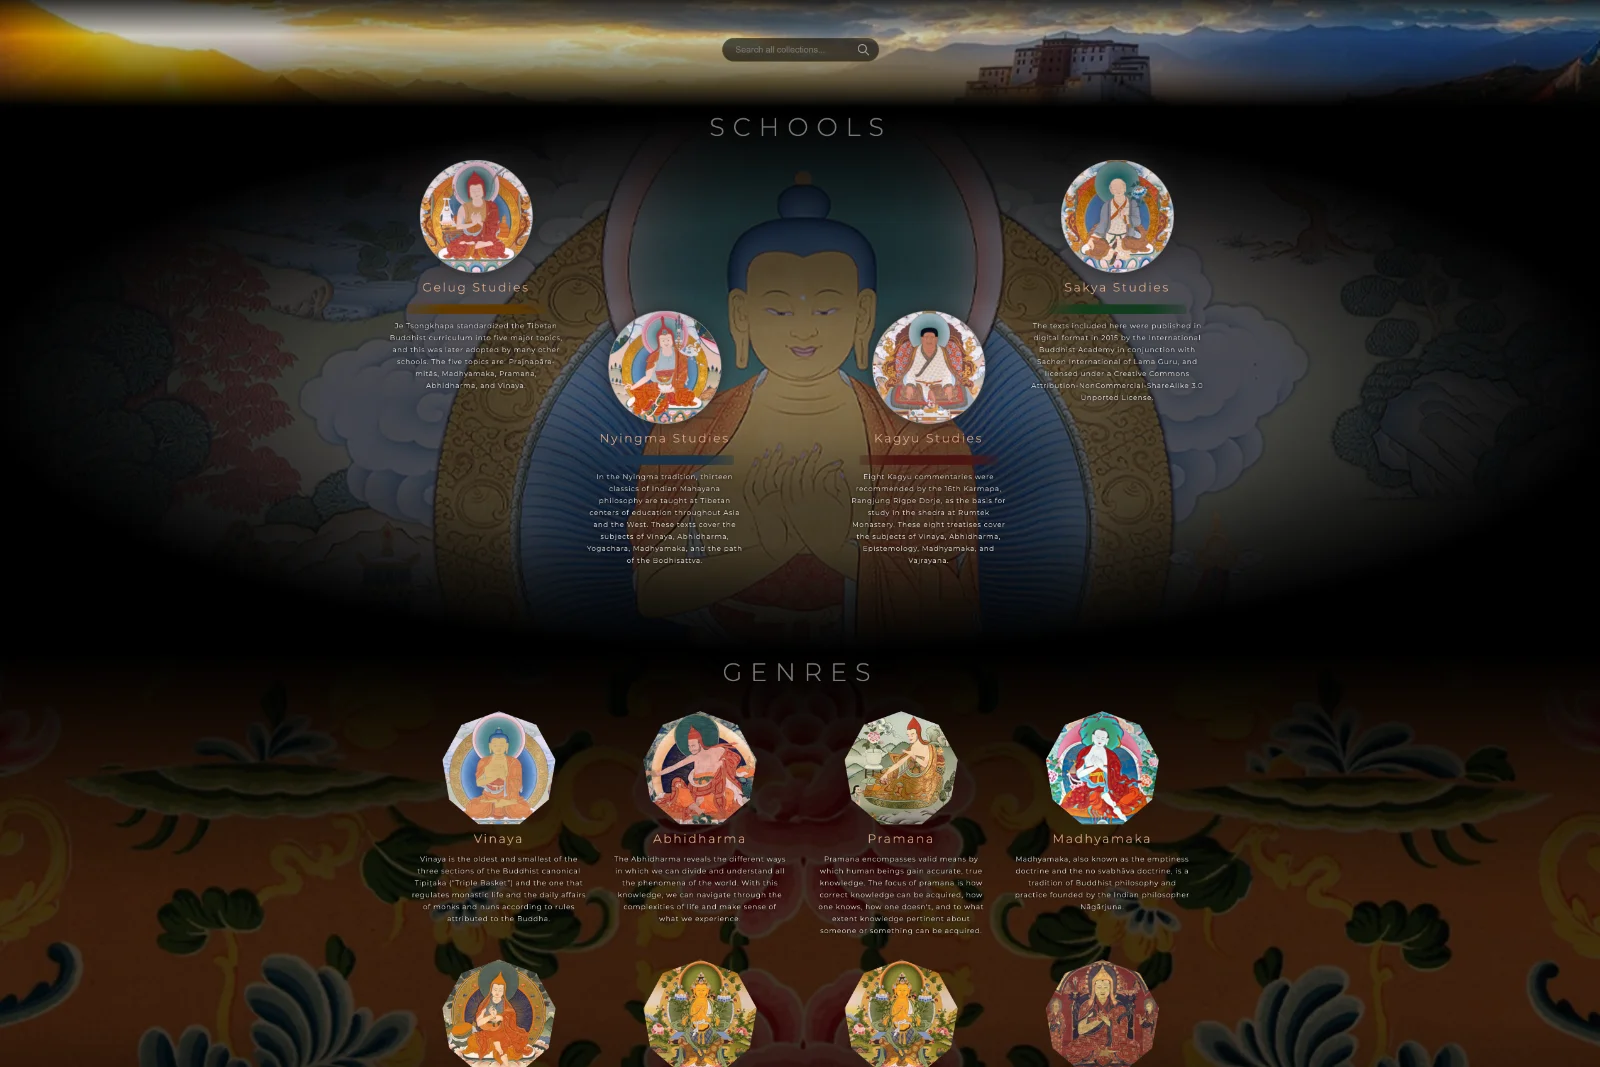
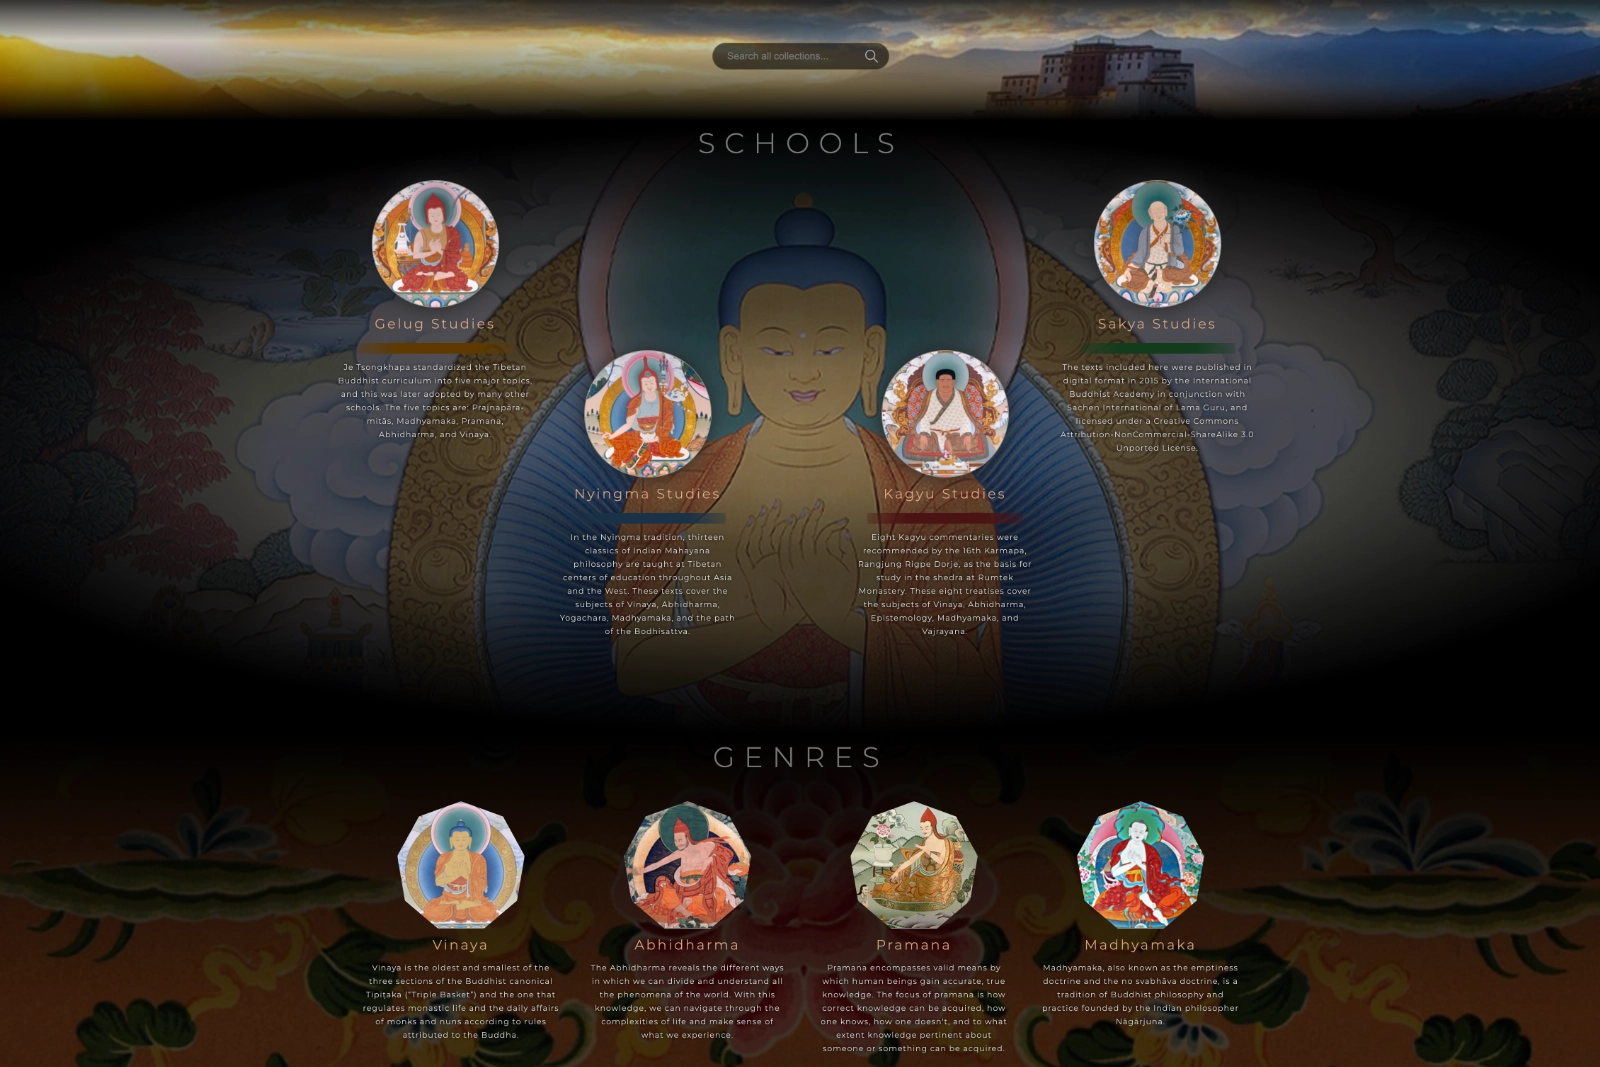
add home page screenshot s for resources and multiple copy edits.

diff --git a/src/app/home-screen.tsx b/src/app/home-screen.tsx
@@ -1,7 +1,6 @@
 "use client";
 
 
-import { CreditCard } from "@/components/shared-assets/credit-card/credit-card";
 import { PlayCircle } from "@untitledui/icons";
 import { Button } from "@/components/base/buttons/button";
 import { useClipboard } from "@/hooks/use-clipboard";
@@ -11,14 +10,14 @@ export const HomeScreen = () => {
     const clipboard = useClipboard();
 
     return (
-        <div className="relative overflow-hidden bg-utility-brand-800">
+        <div className="relative overflow-hidden bg-brand-50 dark:bg-brand-200">
             {/* Background pattern */}
             <img
                 alt="Grid of dots"
                 aria-hidden="true"
                 loading="lazy"
                 src="https://www.untitledui.com/patterns/light/grid-dot-sm-desktop.svg"
-                className="pointer-events-none absolute top-0 left-1/2 z-0 hidden max-w-none -translate-x-1/2 opacity-30 md:block dark:opacity-20 dark:brightness-[0.2]"
+                className="pointer-events-none absolute top-0 left-1/2 z-0 hidden max-w-none -translate-x-1/2 opacity-90 md:block dark:opacity-20 dark:brightness-[0.1]"
             />
             <img
                 alt="Grid of dots"
@@ -28,63 +27,31 @@ export const HomeScreen = () => {
                 className="pointer-events-none absolute top-0 left-1/2 z-0 max-w-none -translate-x-1/2 opacity-20 md:hidden dark:opacity-20 dark:brightness-[0.2]"
             />
 
-            <section className="relative py-16 md:pb-24">
-                <img
-                    alt="Light Accent"
-                    aria-hidden="true"
-                    src="cognitive-mandala-02.webp"
-                    className="absolute -right-4 -bottom-0 max-w-140 opacity-50 mix-blend-normal md:right-16 md:-bottom-0 md:max-w-190"
-                />
-
-                <div className="mx-auto grid max-w-container grid-cols-1 items-center gap-16 px-4 md:px-8 lg:grid-cols-2 lg:gap-16">
-                    <div className="flex max-w-3xl flex-col items-start">
-                        <span className="text-sm font-semibold text-secondary_on-brand md:text-md">Open. Inclusive. Relevant.</span>
-
-                        <h1 className="mt-3 text-display-md font-semibold text-primary_on-brand md:text-display-lg lg:text-display-xl">
+            <section className="py-10 md:pb-16">
+                <div className="relative mx-auto grid max-w-container grid-cols-1 gap-16 px-4 md:px-8 lg:min-h-130 lg:items-center">
+                    <div className="z-10 flex max-w-2xl flex-col items-start">
+                        <span className="text-sm font-semibold text-brand-600 md:text-md">Open. Inclusive. Relevant.</span>
+                        <h1 className="text-display-md font-semibold text-brand-800 md:text-display-lg lg:text-display-xl">
                             Gateways to Buddhist study and practice
                         </h1>
-                        <p className="mt-4 max-w-120 text-lg text-balance text-tertiary_on-brand md:mt-6 md:text-xl">
+                        <p className="mt-4 max-w-xl text-lg text-balance text-gray-600 md:mt-6 md:text-xl">
                             A modern and global platform channeling universally revered Buddhist teachings for everyone.{" "}
                         </p>
 
                         <div className="mt-8 flex w-full flex-col-reverse items-stretch gap-3 md:mt-12 md:flex-row md:items-start">
-                            <Button color="secondary" size="xl" iconLeading={PlayCircle} className="shadow-xs! ring-0">
+                            <Button color="secondary" size="xl" iconLeading={PlayCircle}>
                                 Intro
                             </Button>
                             <Button size="xl">Sign up</Button>
                         </div>
                     </div>
 
-                    <div className="relative -mx-4 flex h-80 items-center justify-center md:mx-0 md:h-120 lg:h-full lg:min-h-150">
-                        <div className="translate-x-[34px] translate-y-[3px] -space-y-[116.5px] md:translate-x-[53px] md:translate-y-[37px] md:-space-y-[83px]">
-                            <div className="relative z-3 translate-y-[20px] rotate-16 drop-shadow-[0_0_12px_rgba(0,0,0,0.3)] opacity-90">
-                                <div
-                                    className="hidden [--scale:1.365] md:[--scale:2.1]"
-                                    style={{
-                                        transform: "scale(var(--scale)) rotateX(63deg) rotateY(1deg) rotateZ(51deg) skewX(14deg)",
-                                    }}
-                                >
-                                    <CreditCard type="transparent-gradient" cardHolder="Esoteric" cardNumber="VAJRAYANA" cardExpiration="" image="lineage-collections-wallpaper.jpg" imagePosition="top" />
-                                </div>
-                            </div>
-                            <div className="hidden relative z-2 translate-y-[12px] rotate-8 drop-shadow-[0_0_12px_rgba(0,0,0,0.3)] opacity-80">
-                                <div
-                                    className="[--scale:1.365] md:[--scale:2.099]"
-                                    style={{
-                                        transform: "scale(var(--scale)) rotateX(63deg) rotateY(1deg) rotateZ(51deg) skewX(14deg)",
-                                    }}
-                                >
-                                    <CreditCard type="transparent-gradient" cardHolder="Gradual" cardNumber="MAHAYANA" cardExpiration="" image="lineage-collections-wallpaper.jpg" imagePosition="top" />
-                                </div>
-                            </div>
-                            <div className="hidden relative z-1 [--scale:1.365] md:[--scale:2.1] drop-shadow-[0_0_12px_rgba(0,0,0,0.2)] opacity-80"
-                                style={{
-                                    transform: "scale(var(--scale)) rotateX(63deg) rotateY(1deg) rotateZ(51deg) skewX(14deg)",
-                                }}
-                            >
-                                <CreditCard type="transparent-gradient" cardHolder="Foundational" cardNumber="THERAVADA" cardExpiration="" image="lineage-collections-wallpaper.jpg" imagePosition="top" />
-                            </div>
-                        </div>
+                    <div className="relative lg:absolute lg:top-0 lg:right-8 lg:h-full lg:w-140">
+                        <img
+                            className="inset-0 h-70 w-full object-cover md:h-120 lg:h-full"
+                            src="/cognitive-mandala-02.webp"
+                            alt="Cognitive mandala"
+                        />
                     </div>
                 </div>
             </section>

diff --git a/src/components/marketing/features/features-alternating-layout-01.tsx b/src/components/marketing/features/features-alternating-layout-01.tsx
@@ -76,7 +76,7 @@ export const FeaturesAlternatingLayout01 = () => {
                 <div className="grid grid-cols-1 gap-10 md:gap-20 lg:grid-cols-2 lg:gap-24">
                     <div className="max-w-xl flex-1 self-center lg:order-last">
                         <FeaturedIcon icon={TrendUp01} size="lg" color="gray" theme="modern-neue" />
-                        <h3 className="mt-5 text-display-xs text-primary md:text-display-sm">Paths to Study and Practice</h3>
+                        <h3 className="mt-5 text-display-xs text-primary md:text-display-sm">Pathways of Study and Practice</h3>
                         <p className="mt-2 text-md text-tertiary md:mt-4 md:text-lg">
                             Accessing Buddha's teachings has become easier than ever. Yet, navigating and making sense of the vast amount of literature and teachings available today can be overwhelming and complicated. We are changing that!
                         </p>
@@ -118,7 +118,7 @@ export const FeaturesAlternatingLayout01 = () => {
                         </p>
                         <ul className="mt-8 flex flex-col gap-4 pl-2 md:gap-5 md:pl-4">
                             {[
-                                "Find other fellows and connect communities around the world",
+                                "Meet people in like-minded forums and connect communities around the world",
                                 "Explore Western and Eastern Buddhist academic centers with study programs",
                                 "Read articles on relevant topics to these times, presented from a Buddhist perspective",
                                 "Build your personal library with your favorite texts and paths to support your journey",
@@ -132,14 +132,14 @@ export const FeaturesAlternatingLayout01 = () => {
                         <AlternateImageMockup className="lg:left-0">
                             {/* Light mode image (hidden in dark mode) */}
                             <img
-                                alt="Dashboard mockup showing application interface"
-                                src="https://www.untitledui.com/marketing/screen-mockups/dashboard-desktop-mockup-light-01.webp"
+                                alt="Mockup showing Resources interface"
+                                src="/resources-mockup-01.webp"
                                 className="size-full object-contain lg:w-auto lg:max-w-none dark:hidden"
                             />
                             {/* Dark mode image (hidden in light mode) */}
                             <img
-                                alt="Dashboard mockup showing application interface"
-                                src="https://www.untitledui.com/marketing/screen-mockups/dashboard-desktop-mockup-dark-01.webp"
+                                alt="Mockup showing Resources interface"
+                                src="/resources-mockup-01.webp"
                                 className="size-full object-contain not-dark:hidden lg:w-auto lg:max-w-none"
                             />
                         </AlternateImageMockup>

diff --git a/src/components/marketing/header-navigation/dropdown-menu-learning-paths.tsx b/src/components/marketing/header-navigation/dropdown-menu-learning-paths.tsx
@@ -1,7 +1,7 @@
 "use client";
 
 import type { FC, ReactNode } from "react";
-import { BookClosed, BookOpen01, Codepen, FileCode01, LifeBuoy01, PlayCircle, Stars02 } from "@untitledui/icons";
+import { BookClosed, BookOpen01, FileCode01, Stars02, } from "@untitledui/icons";
 import { Button } from "@/components/base/buttons/button";
 import { NavMenuItemLink } from "./base-components/nav-menu-item";
 
@@ -20,17 +20,17 @@ type MenuColumn = {
 
 const columns: MenuColumn[] = [
     {
-        title: "Learning Paths",
+        title: "Pathways for everyone",
         items: [
             {
                 title: "Foundational Paths",
-                subtitle: "Immerse yourself in the fundamental theories of the journey.",
+                subtitle: "Immerse yourself in the fundamental theories and principles of the journey.",
                 href: "#",
                 Icon: BookClosed,
             },
             {
                 title: "Academic Paths",
-                subtitle: "Paths to systematic studies of the enlightenment.",
+                subtitle: "Entrnace to systematic studies of the enlightenment.",
                 href: "/resources/study-centers",
                 Icon: Stars02,
             },
@@ -52,8 +52,8 @@ const columns: MenuColumn[] = [
                 Icon: FileCode01,
             },
             {
-                title: "Join our Forum",
-                subtitle: "Engage in conversations and share knowledge with others.",
+                title: "Buddhist Curricula Overview",
+                subtitle: "A visual exploration of modern and traditional Buddhist curricula.",
                 href: "/",
                 Icon: Stars02,
             },
@@ -68,7 +68,7 @@ export const DropdownMenuLearningPaths = () => {
                 <div className="flex flex-col gap-5 rounded-xl bg-brand-25 dark:bg-brand-950 pt-4 ring-1 ring-secondary md:gap-8 md:rounded-t-2xl md:p-6 md:pt-5">
                     <div className="flex flex-col items-center gap-1 px-4 md:p-0">
                         <h4 className="pt-4 text-4xl font-light">STUDY and PRACTICE</h4>
-                        <p className="text-sm text-tertiary">Pathways of study and practice with masters of realization for our modern societies.</p>
+                        <p className="text-sm text-tertiary">Pathways of Buddhist study and practice to tranform our modern societies.</p>
                     </div>
 
                     <div className="flex flex-col gap-5 md:flex-row md:gap-8 md:py-0">

diff --git a/src/components/marketing/footers/footer-large-10.tsx b/src/components/marketing/footers/footer-large-10.tsx
@@ -6,14 +6,22 @@ import { AngelList, Dribbble, Facebook, GitHub, Layers, LinkedIn, X } from "@/co
 
 const footerNavList = [
     {
-        label: "Scripture",
+        label: "Texts",
         items: [
             {
                 label: "Overview",
                 href: "/scripture",
             },
             {
-                label: "Tibetan Schools",
+                label: "Tibetan Studies",
+                href: "/scripture/tibetan-schools",
+            },
+            {
+                label: "Tibetan Canons",
+                href: "/scripture/tibetan-schools",
+            },
+            {
+                label: "Theravada Canons",
                 href: "/scripture/tibetan-schools",
             },
             {
@@ -27,7 +35,7 @@ const footerNavList = [
         ],
     },
     {
-        label: "Learning Paths",
+        label: "Pathways",
         items: [
             {
                 label: "Introduction",
@@ -68,13 +76,17 @@ const footerNavList = [
                 href: "/resources/digital-portals",
             },
             {
-                label: "The Blog",
+                label: "Bodhi Blog",
                 href: "/resources/blog",
                 badge: (
                     <Badge color="gray" type="modern" size="sm" className="ml-1">
                         New
                     </Badge>
                 ),
+            },
+            {
+                label: "Visit the Forum",
+                href: "/resources/digital-portals",
             },
         ],
     },
@@ -89,10 +101,6 @@ const footerNavList = [
                         New
                     </Badge>
                 ),
-            },
-            {
-                label: "About Us",
-                href: "/about",
             },
             {
                 label: "Get Involved",

diff --git a/src/components/application/app-navigation/header-navigation.tsx b/src/components/application/app-navigation/header-navigation.tsx
@@ -165,9 +165,9 @@ export const HeaderNavigationBase = ({
                                             cx(
                                                 "will-change-transform",
                                                 isEntering &&
-                                                    "duration-300 ease-out animate-in fade-in placement-right:slide-in-from-left-2 placement-top:slide-in-from-bottom-2 placement-bottom:slide-in-from-top-2",
+                                                "duration-300 ease-out animate-in fade-in placement-right:slide-in-from-left-2 placement-top:slide-in-from-bottom-2 placement-bottom:slide-in-from-top-2",
                                                 isExiting &&
-                                                    "duration-150 ease-in animate-out fade-out placement-right:slide-out-to-left-2 placement-top:slide-out-to-bottom-2 placement-bottom:slide-out-to-top-2",
+                                                "duration-150 ease-in animate-out fade-out placement-right:slide-out-to-left-2 placement-top:slide-out-to-bottom-2 placement-bottom:slide-out-to-top-2",
                                             )
                                         }
                                     >

diff --git a/src/components/marketing/header-navigation/header.tsx b/src/components/marketing/header-navigation/header.tsx
@@ -22,7 +22,7 @@ type HeaderNavItem = {
 
 const headerNavItems: HeaderNavItem[] = [
     { label: "Texts", href: "/scripture", menu: <DropdownMenuScripture /> },
-    { label: "Paths", href: "/learning-paths", menu: <DropdownMenuLearningPaths /> },
+    { label: "Pathways", href: "/learning-paths", menu: <DropdownMenuLearningPaths /> },
     { label: "Resources", href: "/resources", menu: <DropdownMenuResources /> },
 ];
 
